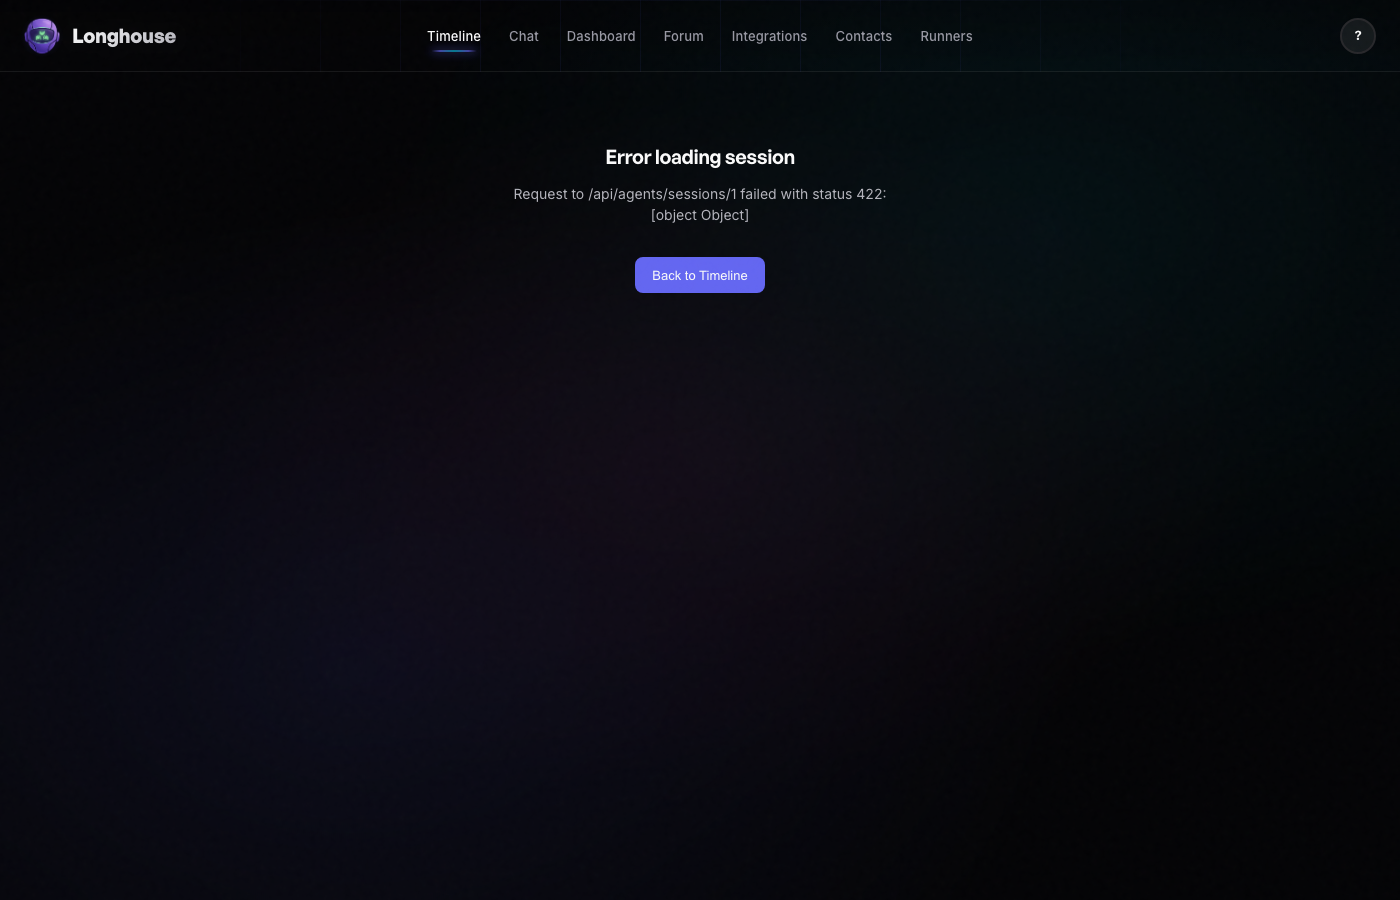
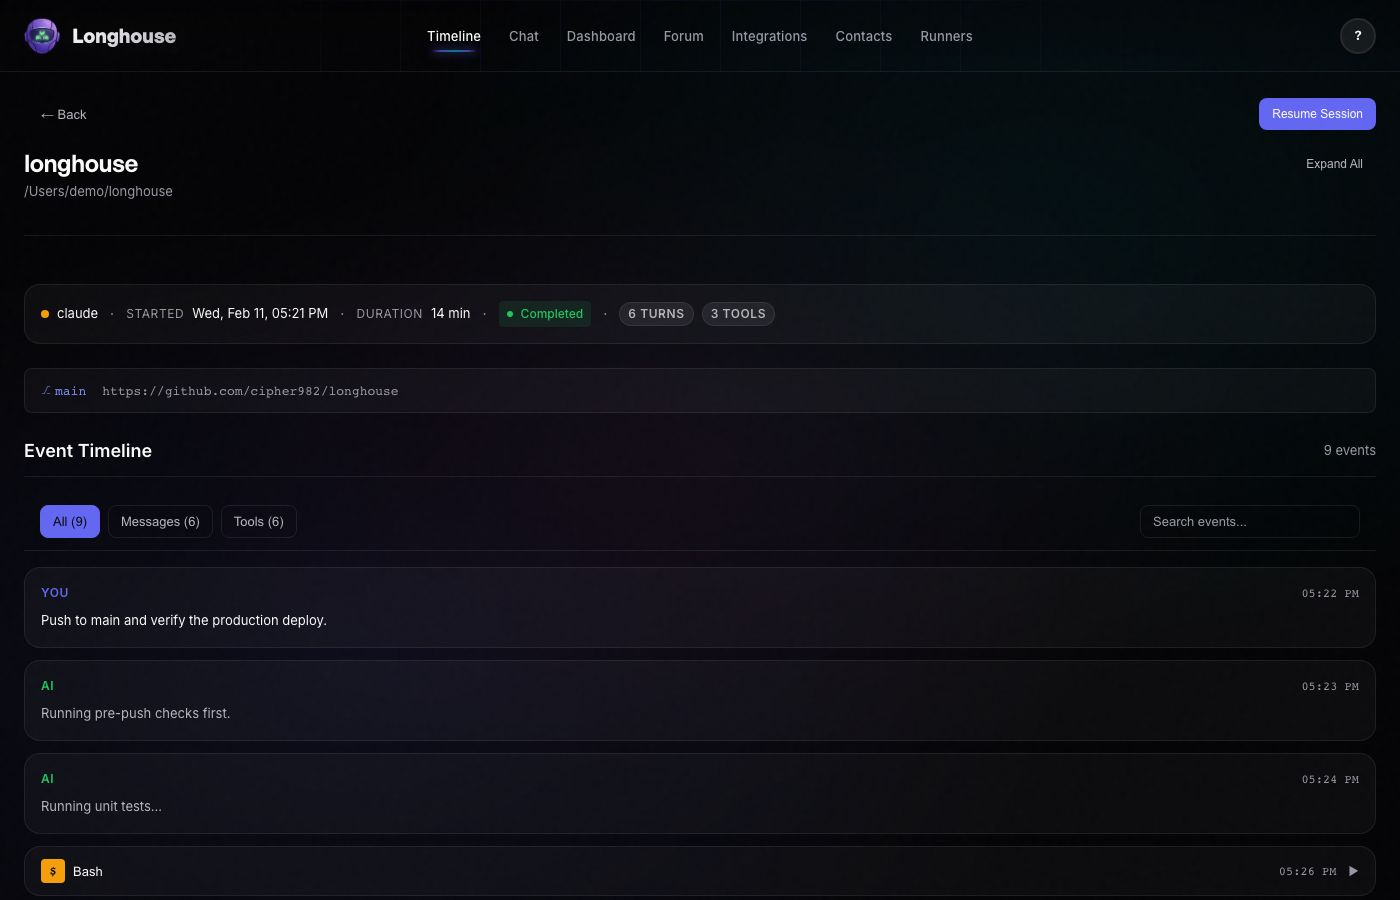
fix: recapture marketing screenshots with working API + dynamic session IDs
- Add resolve_url_templates() to capture script for {first_session_id}
- Fix search-preview URL to use ?query= param (matches frontend code)
- Recapture all 3 screenshots with live demo data (no error states)
- Session detail now dynamically resolves first session UUID via API

diff --git a/scripts/capture_marketing.py b/scripts/capture_marketing.py
@@ -13,7 +13,9 @@ Usage:
 """
 
 import argparse
+import json
 import sys
+import urllib.request
 from pathlib import Path
 
 import yaml
@@ -28,6 +30,22 @@ def load_manifest():
         return yaml.safe_load(f)
 
 
+def resolve_url_templates(url: str, base_url: str) -> str:
+    """Replace {first_session_id} and similar placeholders with live API data."""
+    if "{first_session_id}" not in url:
+        return url
+    api_url = base_url.replace("://localhost:47200", "://localhost:47300")
+    api_url = api_url.replace("://localhost:30080", "://localhost:30080")
+    try:
+        resp = urllib.request.urlopen(f"{api_url}/api/agents/sessions?days_back=30&limit=1")
+        data = json.loads(resp.read())
+        session_id = data["sessions"][0]["id"]
+        return url.replace("{first_session_id}", session_id)
+    except Exception as e:
+        print(f"  Warning: Could not resolve session ID: {e}")
+        return url
+
+
 def capture_screenshot(browser, name: str, config: dict, base_url: str):
     """Capture a single screenshot."""
     from playwright.sync_api import TimeoutError as PlaywrightTimeout  # noqa: PLC0415
@@ -36,8 +54,9 @@ def capture_screenshot(browser, name: str, config: dict, base_url: str):
         viewport={"width": config["viewport"]["width"], "height": config["viewport"]["height"]}
     )
 
-    url = f"{base_url}{config['url']}"
-    print(f"  Navigating to {config['url']}")
+    resolved_path = resolve_url_templates(config["url"], base_url)
+    url = f"{base_url}{resolved_path}"
+    print(f"  Navigating to {resolved_path}")
     page.goto(url)
 
     # Wait for app to signal screenshot readiness (content loaded, animations settled)